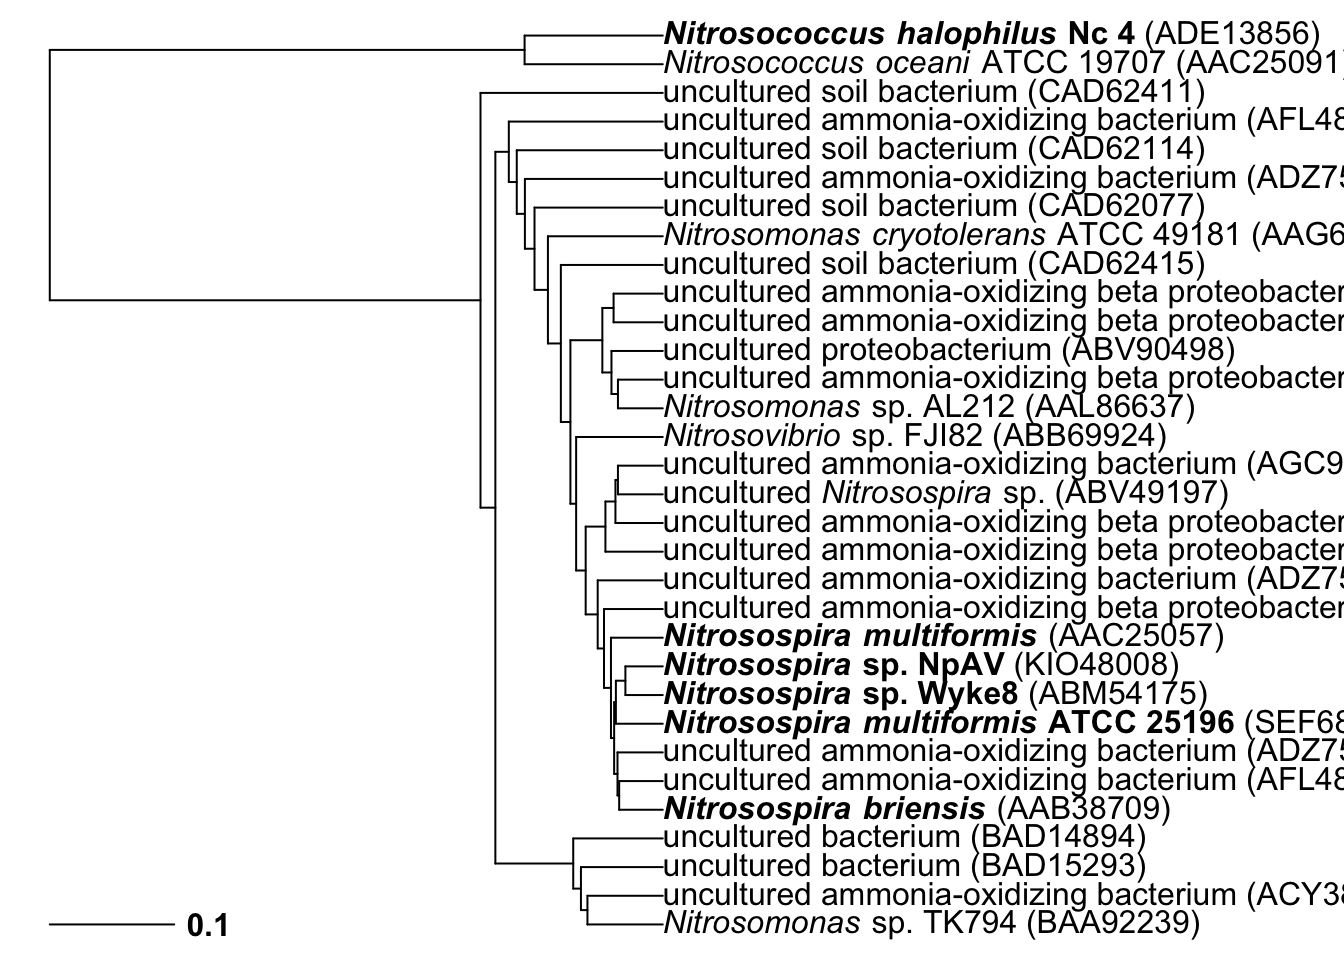
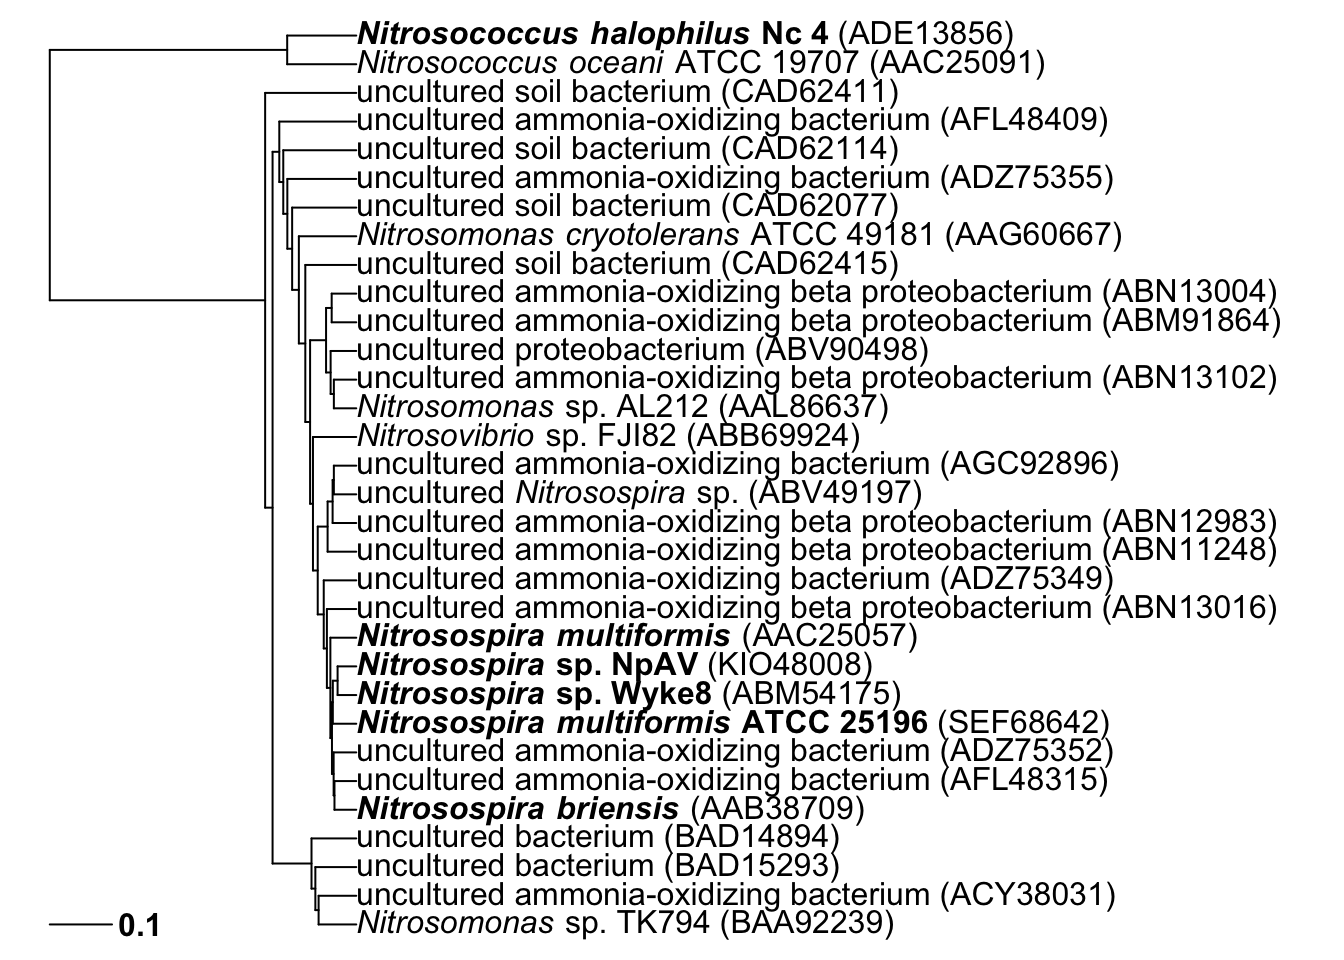
Fix plot margins

Changed region(s): [[0.1875, 0.0, 1.0, 0.9688], [0.0938, 0.9375, 0.1562, 0.9688]]

diff --git a/docs/amoa_aob_phylogeny.html b/docs/amoa_aob_phylogeny.html
@@ -412,7 +412,7 @@ for (i in 1:length(amoa_tree$tip.label)){
 </div>
 <div id="plotting" class="section level3">
 <h3>Plotting</h3>
-<pre class="r"><code>plot(amoa_tree, no.margin = TRUE, x.lim = 1,
+<pre class="r"><code>plot(amoa_tree, no.margin = TRUE, x.lim = 2,
      tip.color = tip_colors)
 add.scale.bar(font = 2)</code></pre>
 <p><img src="amoa_aob_phylogeny_files/figure-html/amoa_aob.red_labels.2-1.png" width="672" /></p>
@@ -447,7 +447,7 @@ for (i in 1:length(amoa_tree$tip.label)){
 }</code></pre>
 <div id="plotting-1" class="section level4">
 <h4>Plotting</h4>
-<pre class="r"><code>plot(amoa_tree, no.margin = TRUE, x.lim = 1)
+<pre class="r"><code>plot(amoa_tree, no.margin = TRUE, x.lim = 2)
 add.scale.bar(font = 2)</code></pre>
 <p><img src="amoa_aob_phylogeny_files/figure-html/amoa_aob.bold_labels.2-1.png" width="672" /></p>
 </div>
